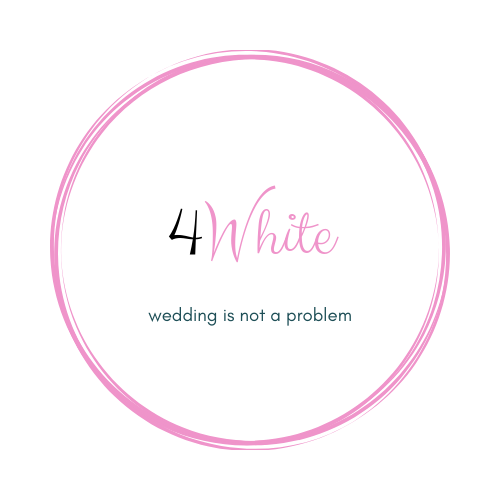
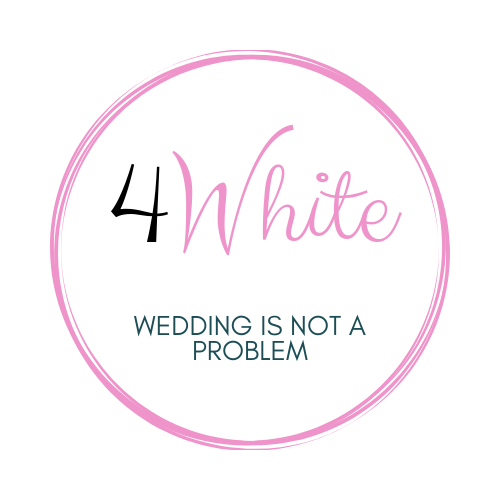
ta da da

Changed region(s): [[0.21, 0.24, 0.81, 0.54], [0.27, 0.6, 0.72, 0.72]]

diff --git a/HTML/major_1.0.html b/HTML/major_1.0.html
@@ -4,11 +4,16 @@
 
 <head>
     <link rel="stylesheet" href="css/styles.css">
-    <title>nic</title>
+    <script src="js/script.js"></script>
+    <link rel="stylesheet" href="styles/styles.css">
+    <title>4White</title>
 </head>
 
 <body>
-   
+    <div>
+            <img src="images/4White.png" alt="LOGO" width="120vw" height="120vw" />
+            
+    </div>
 </body>
 
 </html>
